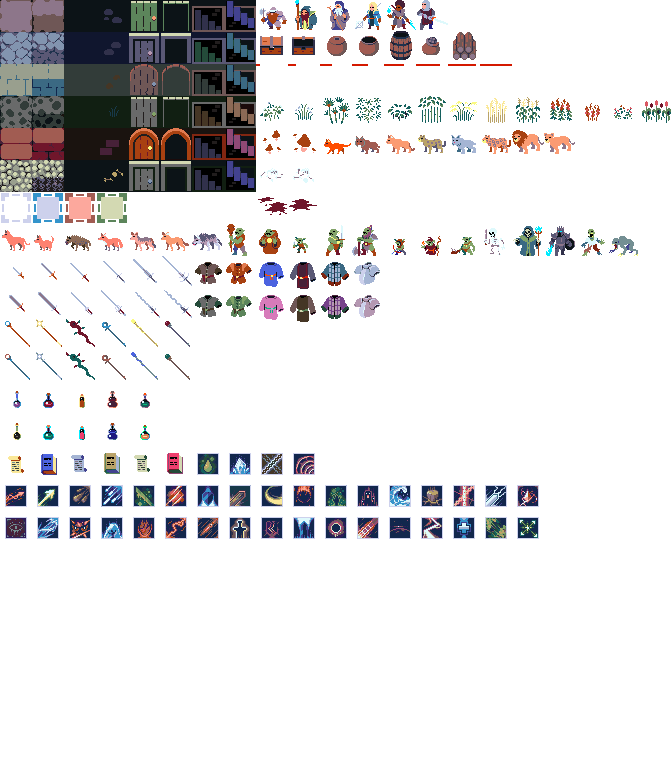
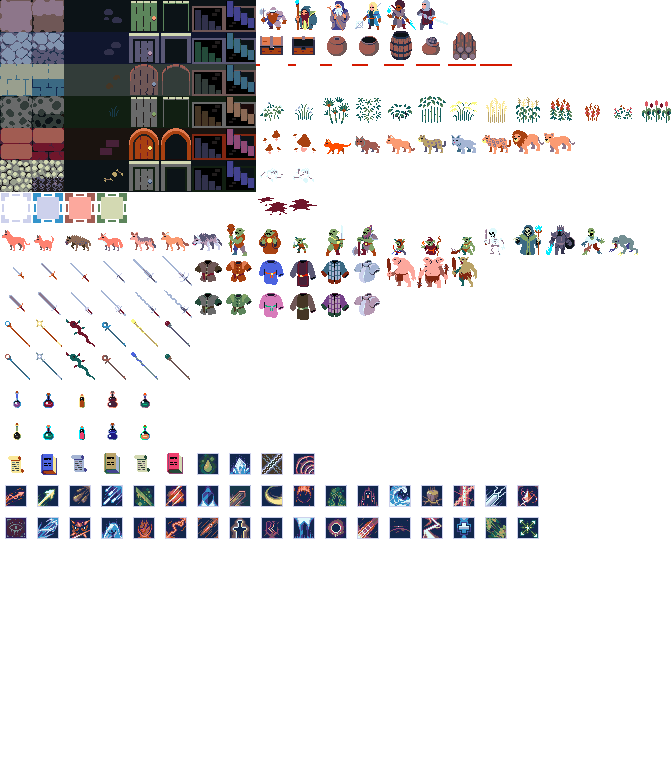
big update

Changed region(s): [[0.2812, 0.3125, 0.7188, 0.4062], [0.7812, 0.2812, 0.9375, 0.3438]]

diff --git a/src/entity.js b/src/entity.js
@@ -31,9 +31,6 @@ Entity = function (properties) {
   this.maxAtk = properties['maxAtk'] || 4;
   this.defense =
     properties['defense'] + Math.floor((this.agi + this.con) * 0.1) || 1;
-
-  this.rareness = 1;
-  //this.rarechance = RareItemDefaultChance;
   this.affects = [];
   this.timestamp = Math.random() * 1000 + Date.now();
   this.getSpeed = function () {
@@ -281,13 +278,6 @@ Entity.prototype.Draw = function () {
       hpbar = 1;
     }
     let _color = Game.map[level].Tiles[this.x][this.y].Color;
-    /*
-    if (this.summoned) {
-      var hpmod = 30;
-    } else {
-      var hpmod = (this.rareness - 1) * 8;
-    }
-    */
     Game.mainDisplay.draw(
       Game.getCamera(this.x, this.y)[0],
       Game.getCamera(this.x, this.y)[1],
@@ -320,9 +310,9 @@ Game.EntityRepository.define('dogs', function (level) {
     'wolf'
   ]);
   this.str = 1 + Math.floor(Math.random() * level * 2);
-  this.agi = 1 + Math.floor(Math.random() * level * 2);
-  this.int = 1 + Math.floor(Math.random() * level * 2);
-  this.con = 1 + Math.floor(Math.random() * level * 2);
+  this.agi = 1 + Math.floor(Math.random() * level);
+  this.int = 1 + Math.floor(Math.random() * level);
+  this.con = 1 + Math.floor(Math.random() * level);
   this.maxAtk = 2 + Math.floor(Math.random() * level * 2);
   this.acts = {
     Hunt: true,
@@ -348,10 +338,10 @@ Game.EntityRepository.define('cats', function (level) {
     'male lion',
     'female lion'
   ]);
-  this.str = 2 + Math.floor(Math.random() * level * 2);
+  this.str = 2 + Math.floor(Math.random() * level);
   this.agi = 4 + Math.floor(Math.random() * level * 2);
-  this.int = 1 + Math.floor(Math.random() * level * 2);
-  this.con = 2 + Math.floor(Math.random() * level * 2);
+  this.int = 1 + Math.floor(Math.random() * level);
+  this.con = 2 + Math.floor(Math.random() * level);
   this.maxAtk = 4 + Math.floor(Math.random() * level * 2);
   this.acts = {
     Hunt: true,
@@ -366,10 +356,10 @@ Game.EntityRepository.define('littlegoblinwarrior', function (level) {
   this.maxLvl = 10;
   this.level = level;
   this.name = 'little goblin warrior';
-  this.str = 4 + Math.floor(Math.random() * level * 2);
-  this.agi = 1 + Math.floor(Math.random() * level * 2);
-  this.int = 3 + Math.floor(Math.random() * level * 2);
-  this.con = 3 + Math.floor(Math.random() * level * 2);
+  this.str = 4 + Math.floor(Math.random() * level);
+  this.agi = 1 + Math.floor(Math.random() * level);
+  this.int = 3 + Math.floor(Math.random() * level);
+  this.con = 3 + Math.floor(Math.random() * level);
   this.maxAtk = 6 + Math.floor(Math.random() * level * 2);
   this.acts = {
     Hunt: true,
@@ -405,10 +395,10 @@ Game.EntityRepository.define('littlegoblinwizard', function (level) {
   this.maxLvl = 10;
   this.level = level;
   this.name = 'little goblin wizard';
-  this.str = 1 + Math.floor(Math.random() * level * 2);
-  this.agi = 3 + Math.floor(Math.random() * level * 2);
-  this.int = 5 + Math.floor(Math.random() * level * 2);
-  this.con = 1 + Math.floor(Math.random() * level * 2);
+  this.str = 1 + Math.floor(Math.random() * level);
+  this.agi = 3 + Math.floor(Math.random() * level);
+  this.int = 5 + Math.floor(Math.random() * level);
+  this.con = 1 + Math.floor(Math.random() * level);
   this.maxAtk = 2 + Math.floor(Math.random() * level * 2);
   this.acts = {
     Hunt: true,
@@ -445,11 +435,11 @@ Game.EntityRepository.define('goblinwarrior', function (level) {
   this.level = level;
   this.name = 'goblin warrior';
   this.defense = 5;
-  this.str = 7 + level + Math.floor(Math.random() * level);
+  this.str = level + Math.floor(Math.random() * level * 2);
   this.agi = 4 + Math.floor(Math.random() * level);
   this.int = 4 + Math.floor(Math.random() * level);
-  this.con = 5 + Math.floor(Math.random() * level * 2);
-  this.maxAtk = 6 + level + Math.floor(Math.random() * level);
+  this.con = 5 + Math.floor(Math.random() * level);
+  this.maxAtk = 2 + level + Math.floor(Math.random() * level);
   this.acts = {
     Hunt: true,
     Attack: true,
@@ -482,11 +472,11 @@ Game.EntityRepository.define('goblinwizard', function (level) {
   this.level = level;
   this.defense = 3;
   this.name = 'goblin wizard';
-  this.str = 3 + level + Math.floor(Math.random() * level);
+  this.str = 3 + Math.floor(Math.random() * level);
   this.agi = 3 + Math.floor(Math.random() * level);
-  this.int = 5 + level + Math.floor(Math.random() * level);
+  this.int = level + Math.floor(Math.random() * level * 2);
   this.con = 1 + Math.floor(Math.random() * level);
-  this.maxAtk = 2 + Math.floor(Math.random() * level * 2);
+  this.maxAtk = 4 + Math.floor(Math.random() * level);
   this.vision = 6;
   this.acts = {
     Hunt: true,
@@ -509,5 +499,214 @@ Game.EntityRepository.define('goblinwizard', function (level) {
     this.int += 4;
     this.agi += 4;
     this.skills.push(Game.SkillRepository.create('iceshield', 3));
+  }
+});
+
+Game.EntityRepository.define('skeleton', function (level) {
+  this.minLvl = 10;
+  this.maxLvl = 20;
+  this.level = level;
+  this.name = 'skeleton';
+  this.defense = 6;
+  this.str = level + Math.floor(Math.random() * level);
+  this.agi = 3 + Math.floor(Math.random() * level);
+  this.int = 2 + Math.floor(Math.random() * level);
+  this.con = 4 + Math.floor(Math.random() * level);
+  this.maxAtk = 7 + Math.floor(Math.random() * level);
+  this.symbol = this.name;
+  this.acts = { Hunt: true, Attack: true, Actor: true };
+  if (Math.random() < rareMobChance) {
+    this.name = '%c{lightsalmon}rare ' + this.name + '%c{}';
+    this.str += 2;
+    this.agi += 2;
+    this.con += 2;
+  }
+});
+
+Game.EntityRepository.define('lich', function (level) {
+  this.minLvl = 18;
+  this.maxLvl = 30;
+  this.level = level;
+  this.name = 'lich';
+  this.defense = 6;
+  this.str = 3 + Math.floor(Math.random() * level);
+  this.agi = 3 + Math.floor(Math.random() * level);
+  this.int = level + Math.floor(Math.random() * level * 2);
+  this.con = 5 + Math.floor(Math.random() * level);
+  this.maxAtk = 5 + Math.floor(Math.random() * level);
+  this.vision = 7;
+  this.acts = { Hunt: true, Attack: true, Actor: true, Skills: true };
+  const mainSkill = ROT.RNG.getItem([
+    'lightningbolt',
+    'acidcloud',
+    'icefall',
+    'frozentomb',
+    'darkness'
+  ]);
+  this.skills = [
+    Game.SkillRepository.create(
+      mainSkill,
+      8 + Math.floor((Math.random() * level) / 2)
+    ),
+    Game.SkillRepository.createRandom(10, level - 2)
+  ];
+  this.symbol = this.name;
+  if (Math.random() < rareMobChance) {
+    this.name = '%c{lightsalmon}rare ' + this.name + '%c{}';
+    this.int += 4;
+    this.con += 4;
+    this.skills.push(
+      Game.SkillRepository.create(
+        ROT.RNG.getItem(['iceshield', 'auraoffear', 'arcaneshield']),
+        3 + Math.floor(Math.random() * 7)
+      )
+    );
+  }
+});
+
+Game.EntityRepository.define('darkknight', function (level) {
+  this.minLvl = 20;
+  this.maxLvl = 35;
+  this.level = level;
+  this.name = 'dark knight';
+  this.defense = 10;
+  this.str = level + Math.floor(Math.random() * level * 2);
+  this.agi = 4 + Math.floor(Math.random() * level);
+  this.int = 4 + Math.floor(Math.random() * level);
+  this.con = 6 + Math.floor(Math.random() * level);
+  this.maxAtk = 6 + level + Math.floor(Math.random() * level);
+  this.acts = { Hunt: true, Attack: true, Actor: true, Skills: true };
+  this.skills = [
+    Game.SkillRepository.create(
+      ROT.RNG.getItem(['twistingslash', 'lightningstrike', 'icefall']),
+      5 + Math.floor((Math.random() * level) / 2)
+    )
+  ];
+  this.symbol = this.name;
+  if (Math.random() < rareMobChance) {
+    this.name = '%c{lightsalmon}rare ' + this.name + '%c{}';
+    this.str += 3;
+    this.con += 3;
+    this.skills.push(
+      Game.SkillRepository.create(
+        ROT.RNG.getItem(['auraofwinter', 'reflectionshield', 'heal']),
+        2 + Math.floor(Math.random() * level)
+      )
+    );
+  }
+});
+
+Game.EntityRepository.define('zombie', function (level) {
+  this.minLvl = 10;
+  this.maxLvl = 22;
+  this.level = level;
+  this.name = 'zombie';
+  this.defense = 4;
+  this.str = level + Math.floor(Math.random() * level);
+  this.agi = 2 + Math.floor((Math.random() * level) / 2);
+  this.int = 1 + Math.floor((Math.random() * level) / 2);
+  this.con = 6 + Math.floor(Math.random() * level);
+  this.maxAtk = 4 + level + Math.floor(Math.random() * level);
+  this.symbol = this.name;
+  this.acts = { Hunt: true, Attack: true, Actor: true };
+  if (Math.random() < rareMobChance) {
+    this.name = '%c{lightsalmon}rare ' + this.name + '%c{}';
+    this.str += 3;
+    this.con += 5;
+  }
+});
+
+Game.EntityRepository.define('ghoul', function (level) {
+  this.minLvl = 12;
+  this.maxLvl = 25;
+  this.level = level;
+  this.name = 'ghoul';
+  this.defense = 4;
+  this.str = level + Math.floor(Math.random() * level);
+  this.agi = 4 + Math.floor(Math.random() * level);
+  this.int = 2 + Math.floor(Math.random() * level);
+  this.con = 5 + Math.floor(Math.random() * level);
+  this.maxAtk = 4 + level + Math.floor(Math.random() * level);
+  this.acts = { Hunt: true, Attack: true, Actor: true, Skills: true };
+  this.symbol = this.name;
+  this.skills = [
+    Game.SkillRepository.create(
+      ROT.RNG.getItem(['poisonslash', 'acidcloud']),
+      4 + Math.floor(Math.random() * 4)
+    )
+  ];
+  if (Math.random() < rareMobChance) {
+    this.name = '%c{lightsalmon}rare ' + this.name + '%c{}';
+    this.str += 2;
+    this.agi += 2;
+    this.skills.push(Game.SkillRepository.createRandom(15, level));
+  }
+});
+
+Game.EntityRepository.define('ettin', function (level) {
+  this.minLvl = 18;
+  this.maxLvl = 30;
+  this.level = level;
+  this.name = 'ettin';
+  this.defense = 6;
+  this.str = level + Math.floor(Math.random() * level * 2);
+  this.agi = 3 + Math.floor(Math.random() * level);
+  this.int = 2 + Math.floor((Math.random() * level) / 2);
+  this.con = 6 + Math.floor(Math.random() * level);
+  this.maxAtk = 6 + level + Math.floor(Math.random() * level);
+  this.acts = { Hunt: true, Attack: true, Actor: true };
+  this.symbol = this.name;
+  if (Math.random() < rareMobChance) {
+    this.name = '%c{lightsalmon}rare ' + this.name + '%c{}';
+    this.str += 5;
+    this.con += 3;
+  }
+});
+
+Game.EntityRepository.define('twoheadedettin', function (level) {
+  this.minLvl = 25;
+  this.maxLvl = 35;
+  this.level = level;
+  this.name = 'two-headed ettin';
+  this.defense = 8;
+  this.str = level + Math.floor(Math.random() * level * 2);
+  this.agi = 4 + Math.floor(Math.random() * level);
+  this.int = 3 + Math.floor(Math.random() * level);
+  this.con = 8 + Math.floor(Math.random() * level);
+  this.maxAtk = 8 + level + Math.floor(Math.random() * level);
+  this.acts = { Hunt: true, Attack: true, Actor: true, Skills: true };
+  this.symbol = this.name;
+  this.skills = [Game.SkillRepository.createRandom(10, level)];
+  if (Math.random() < rareMobChance) {
+    this.name = '%c{lightsalmon}rare ' + this.name + '%c{}';
+    this.str += 4;
+    this.con += 4;
+    this.skills.push(Game.SkillRepository.createRandom(level - 2, level + 2));
+  }
+});
+
+Game.EntityRepository.define('troll', function (level) {
+  this.minLvl = 20;
+  this.maxLvl = 32;
+  this.level = level;
+  this.name = 'troll';
+  this.defense = 10;
+  this.str = level + Math.floor(Math.random() * level * 2);
+  this.agi = 4 + Math.floor(Math.random() * level);
+  this.int = 3 + Math.floor(Math.random() * level);
+  this.con = 7 + Math.floor(Math.random() * level);
+  this.maxAtk = 6 + level + Math.floor(Math.random() * level);
+  this.acts = { Hunt: true, Attack: true, Actor: true, Skills: true };
+  this.symbol = this.name;
+  this.skills = [
+    Game.SkillRepository.create(
+      ROT.RNG.getItem(['crackedearth', 'strengthofstone', 'rapidcut']),
+      4 + Math.floor(Math.random() * 4)
+    )
+  ];
+  if (Math.random() < rareMobChance) {
+    this.name = '%c{lightsalmon}rare ' + this.name + '%c{}';
+    this.con += 10;
+    this.skills.push(Game.SkillRepository.createRandom(level - 2, level + 2));
   }
 });

diff --git a/src/item.js b/src/item.js
@@ -1916,7 +1916,7 @@ Game.ItemRepository.define('elementalstaff', function (level) {
     level +
     ')';
 
-  this.minLvl = 1;
+  this.minLvl = 8;
   this.maxLvl = 50;
   this.type = 'weapon';
   this.level = level;
@@ -1926,7 +1926,7 @@ Game.ItemRepository.define('elementalstaff', function (level) {
 
   const skillMap = {
     fire: ['fireball', 'flamechains', 'fireshield'],
-    ice: ['iceshield', 'frozen tomb', 'icearrow', 'icefall'],
+    ice: ['iceshield', 'frozentomb', 'icearrow', 'icefall'],
     poison: ['plague', 'acidcloud', 'poisonarrow'],
     earth: ['strengthofstone', 'crackedearth'],
     light: ['honor', 'solareclipse', 'supernova', 'heal'],
@@ -1973,7 +1973,7 @@ Game.ItemRepository.define('elementalsword', function (level) {
     level +
     ')';
 
-  this.minLvl = 1;
+  this.minLvl = 8;
   this.maxLvl = 50;
   this.type = 'weapon';
   this.level = level;

diff --git a/src/player.js b/src/player.js
@@ -82,8 +82,9 @@ Player.prototype.goUp = function () {
   Game.messageBox.sendMessage('You went up the stairs.');
 };
 
-Player.prototype.act = function () {
+Player.prototype.act = async function () {
   if (this.stun) {
+    await new Promise((resolve) => setTimeout(resolve, 1000));
     return;
   }
   Game.engine.lock();

diff --git a/src/tiles.js b/src/tiles.js
@@ -101,6 +101,9 @@ const gameTilemap = {
   'dark knight': [544, 224],
   zombie: [576, 224],
   ghoul: [608, 224],
+  ettin: [384, 256],
+  'two headed ettin': [416, 256],
+  troll: [448, 256],
   //player tiles
   warrior1: [256, 0],
   wizard1: [288, 0],
